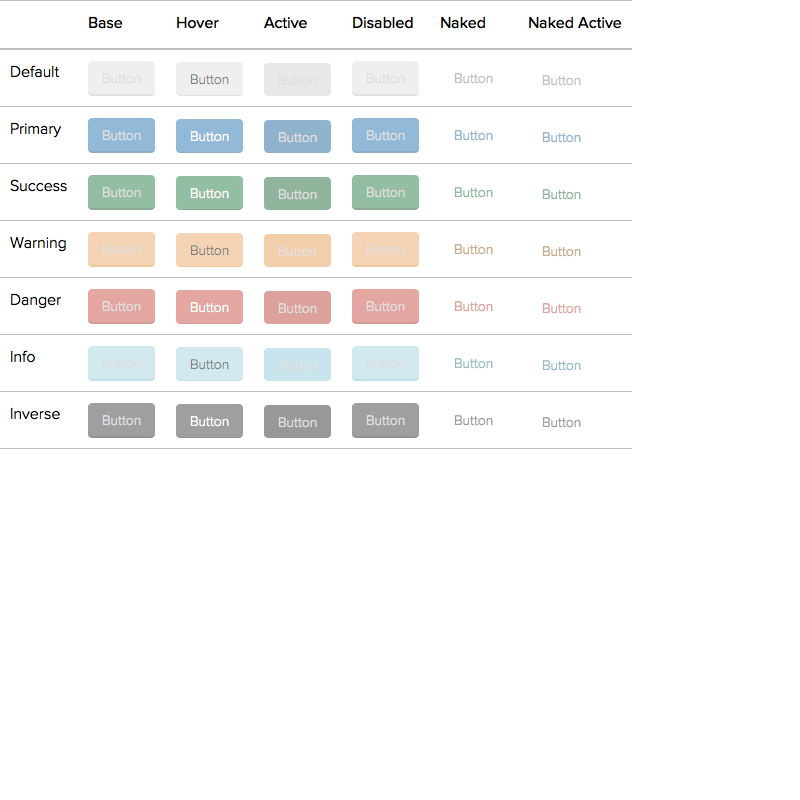
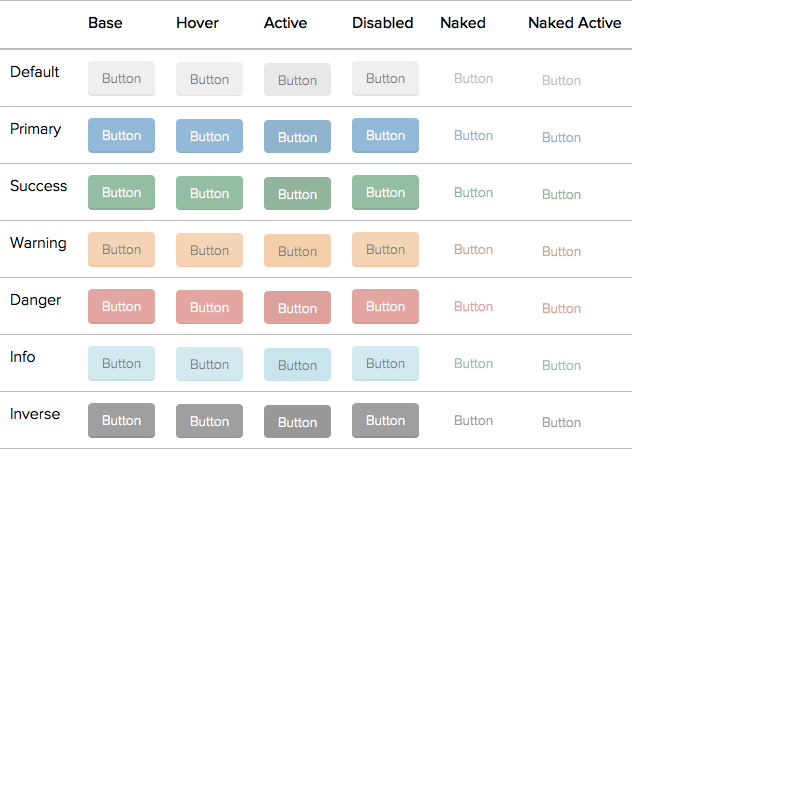
Regenerate wraith baseline

diff --git a/stylesheets/_structure.type.scss b/stylesheets/_structure.type.scss
@@ -115,7 +115,7 @@ dt {
     }
 }
 
-body a.is-disabled {
+body a:not(.btn).is-disabled {
     color: color(link, disabled) !important;
     cursor: not-allowed;
 }
